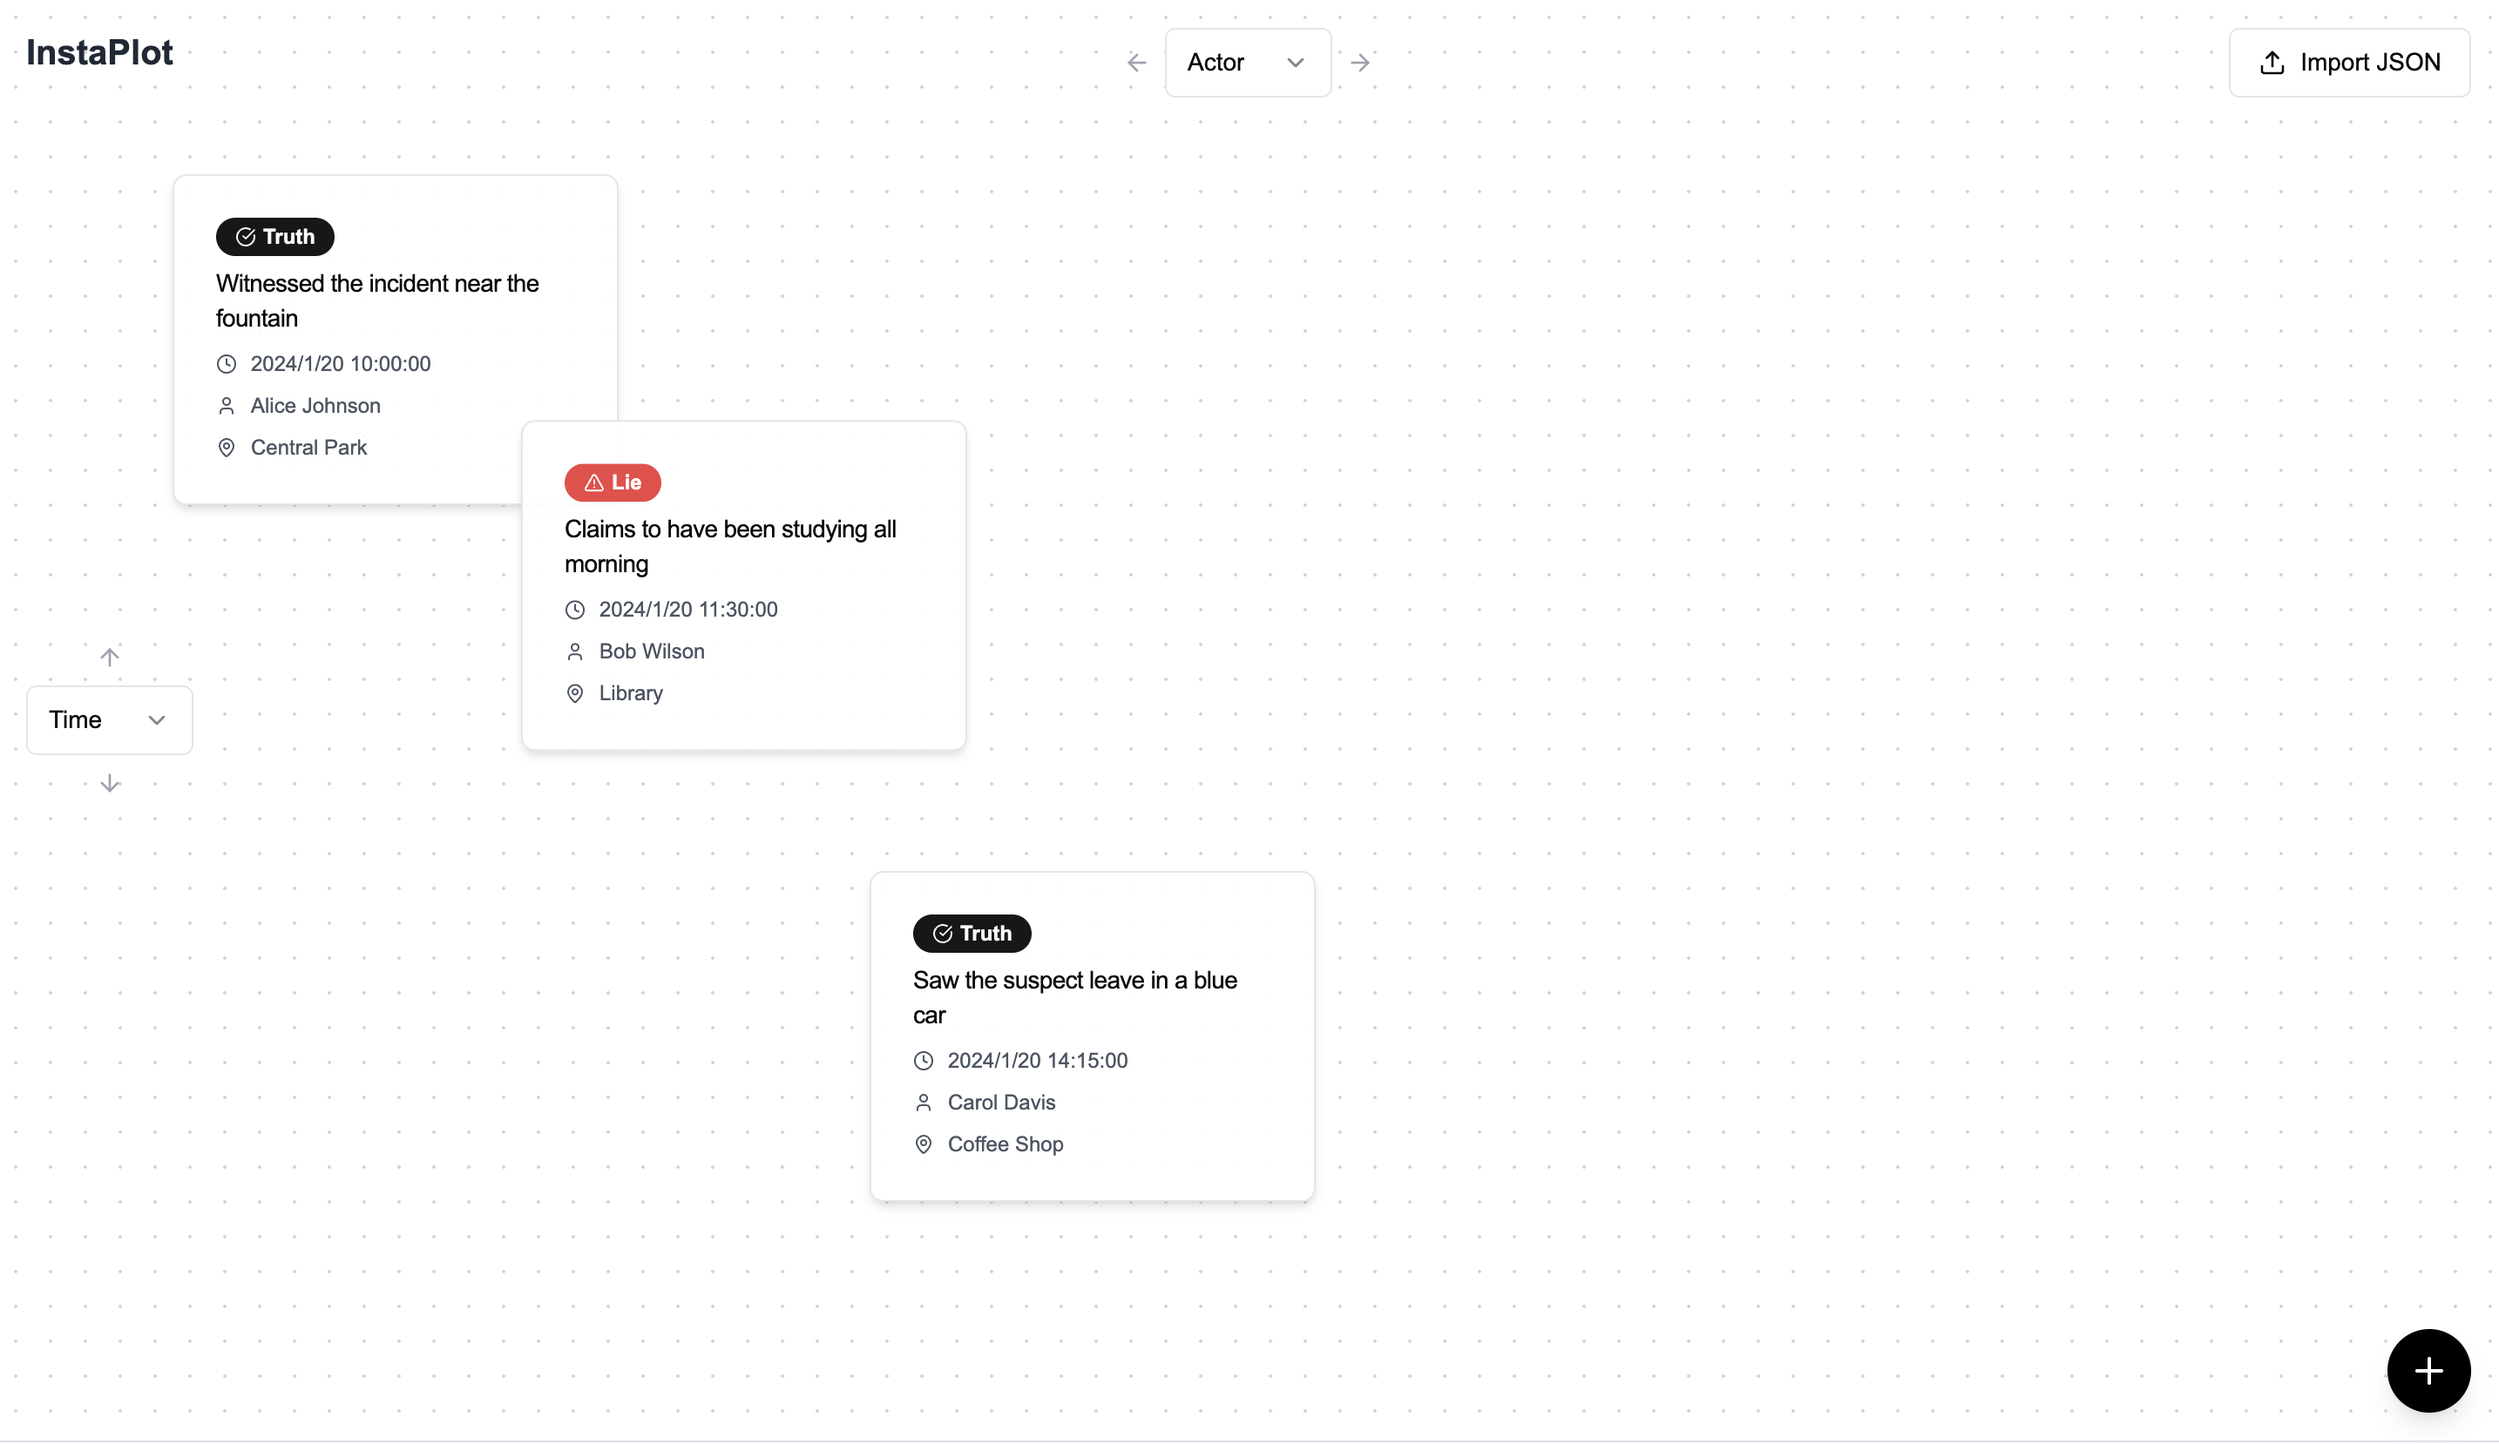
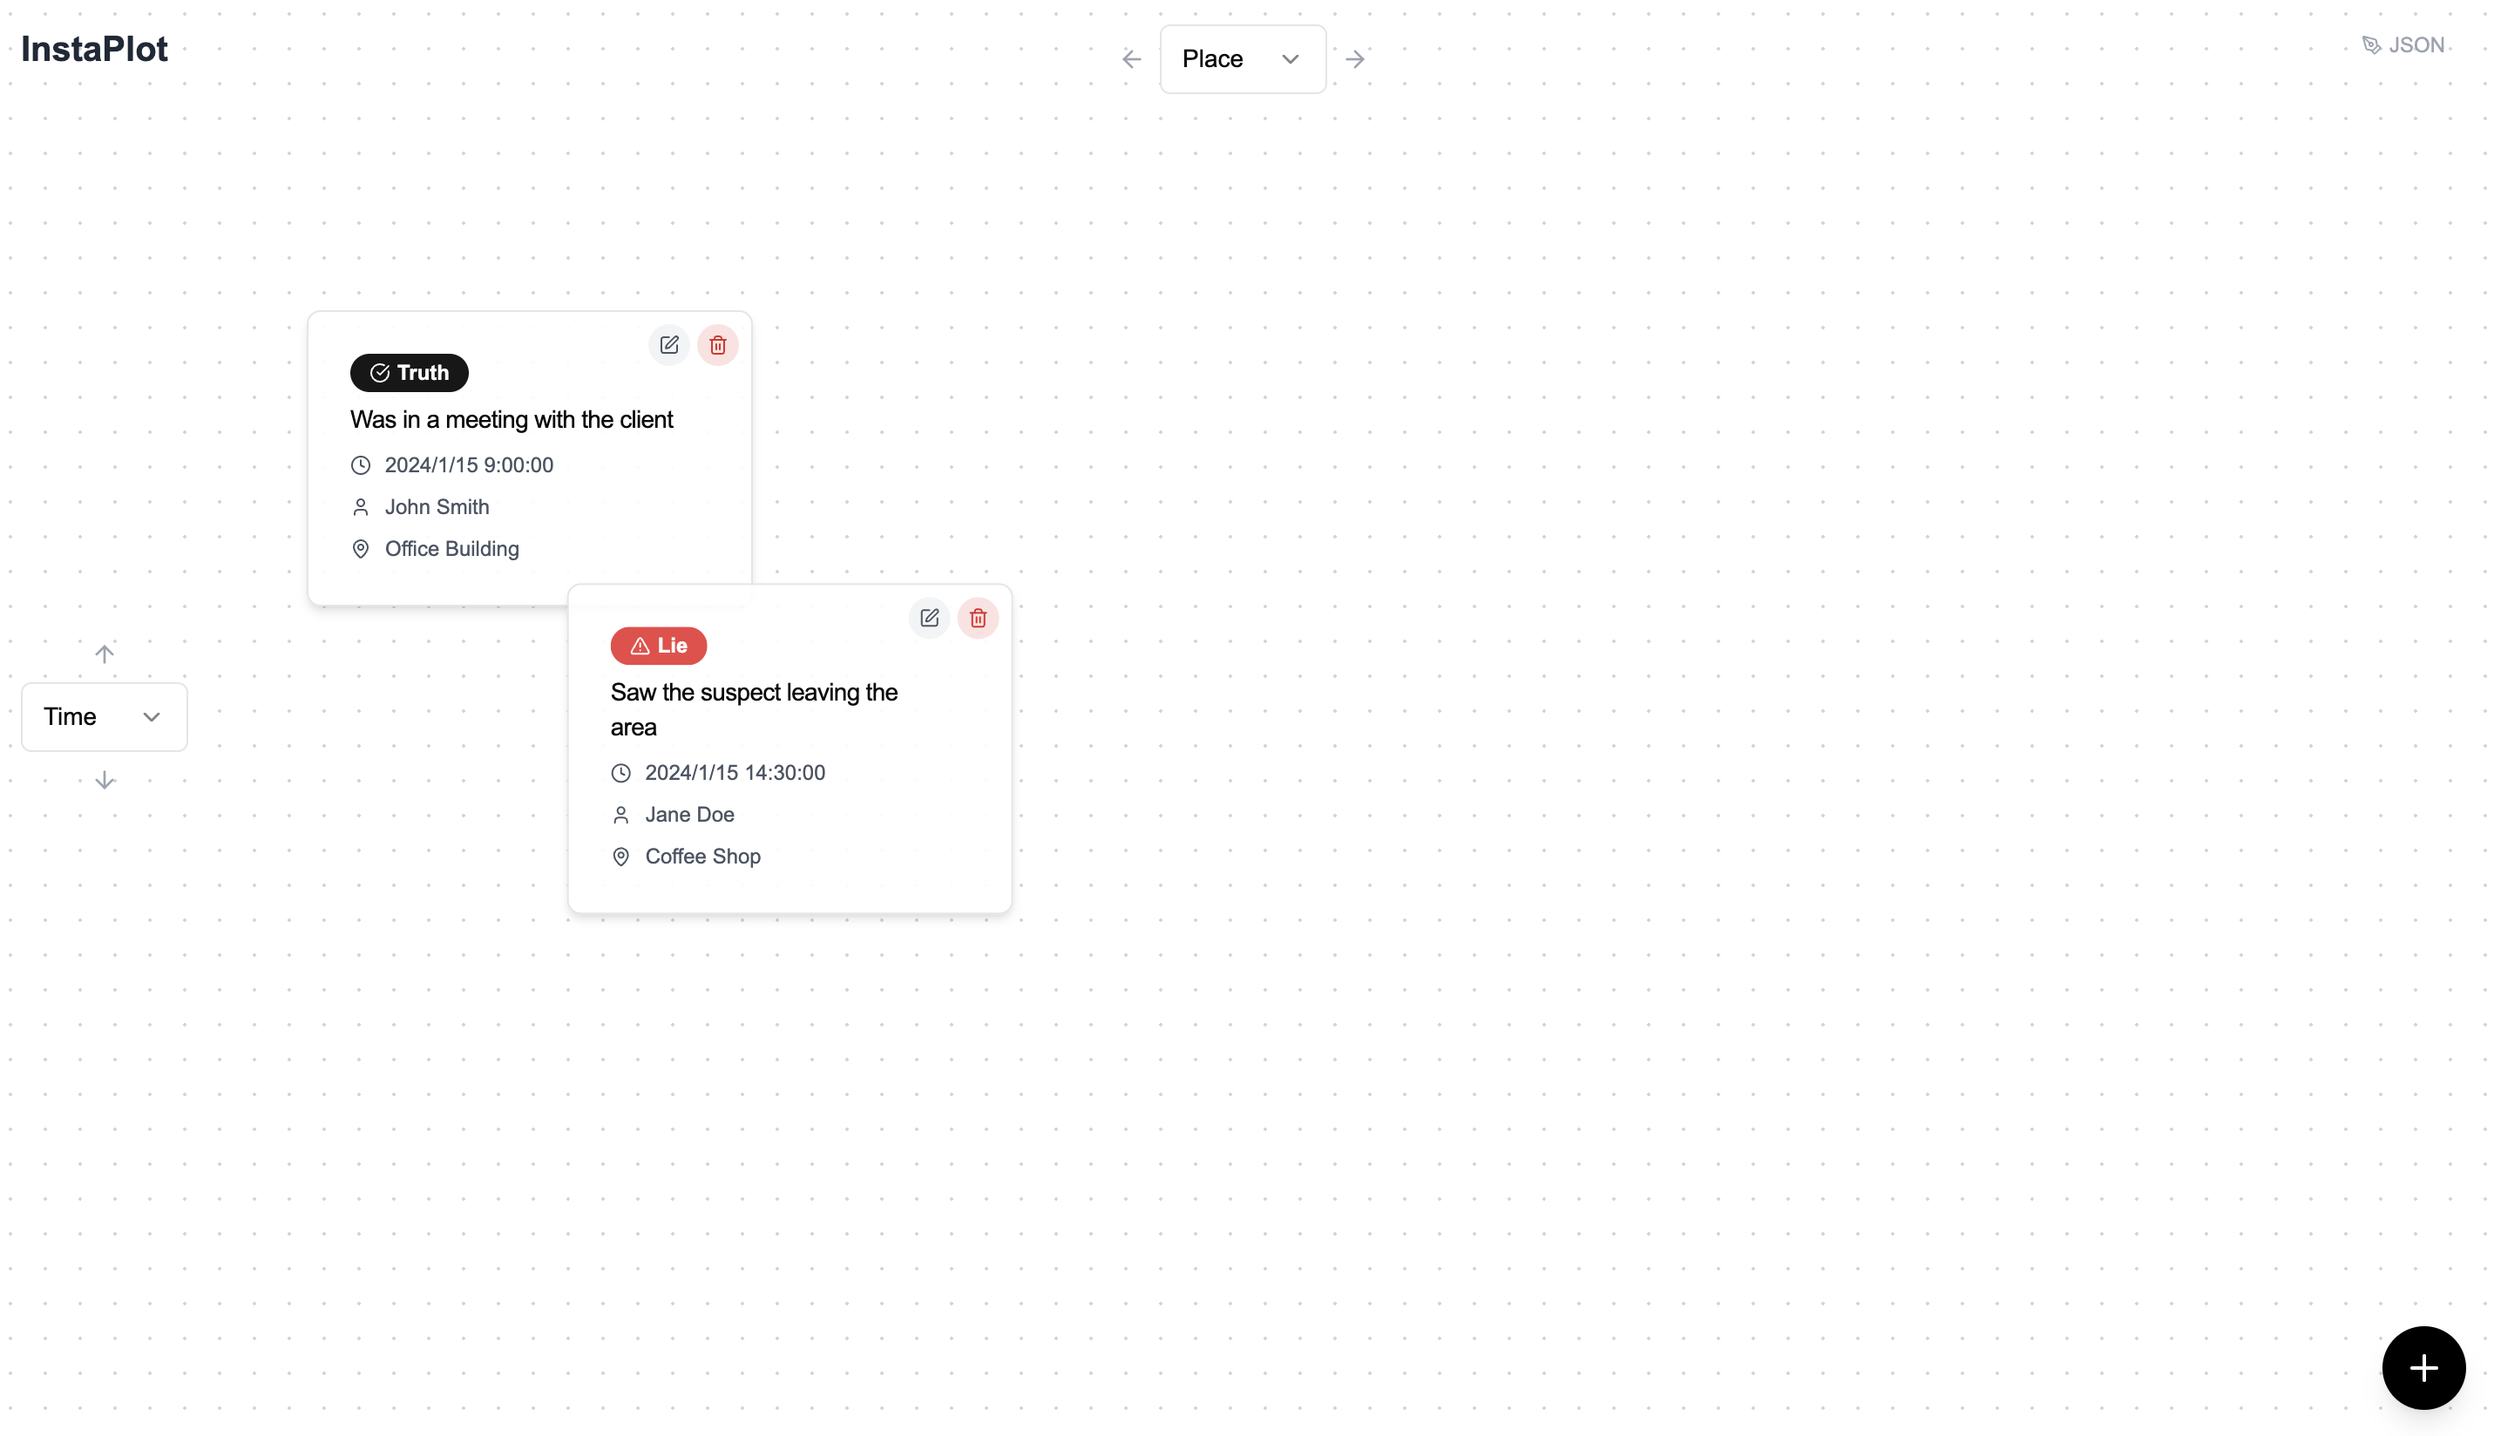
Update README.md: enhance feature descriptions, add JSON editor mode section, and improve design details; add new screenshots

diff --git a/README.md b/README.md
@@ -2,7 +2,12 @@
 
 A professional visual case management tool for organizing and analyzing case information cards in an interactive workspace. Perfect for investigators, researchers, and analysts who need to visualize relationships between events, people, and locations.
 
+🌐 **[Live Demo](https://insta-plot.vercel.app)**
+
 ![InstaPlot Screenshot](./public/screenshot.png)
+
+### JSON Editor Mode
+![JSON Editor Screenshot](./public/screenshot_json.png)
 
 ## ✨ Features
 
@@ -10,7 +15,7 @@ A professional visual case management tool for organizing and analyzing case inf
 - **Full-Screen Plot Area**: Maximizes available space with a professional dotted grid background
 - **Drag & Drop Interface**: Smooth card movement with Framer Motion animations
 - **Real-time Organization**: Cards automatically reorganize when switching axis modes
-- **VSCode-Style Activity Bar**: Left sidebar with import/export icons for quick access
+- **Clean Minimalist Design**: Distraction-free workspace with floating controls
 
 ### 🎛 Dynamic Axis Configuration
 - **X-Axis Control**: Place, Actor, or Time (positioned at top center with directional arrows)
@@ -18,24 +23,26 @@ A professional visual case management tool for organizing and analyzing case inf
 - **Instant Reorganization**: Cards automatically arrange when axis modes change
 - **Visual Feedback**: Clear directional indicators for each axis
 
-### 💾 Robust Data Management
+### 💾 Data Management
 - **Auto-Save**: All cards automatically saved to browser localStorage
-- **JSON Import/Export**: Import and export case data with full validation
+- **JSON Editor**: Live JSON editing with real-time preview and validation
 - **Session Persistence**: Data survives page refreshes and browser restarts
-- **Error Handling**: Graceful handling of invalid data imports
-- **Smart Export**: Downloads include timestamp and are disabled when no cards exist
+- **Default Sample Data**: Starts with example cards to demonstrate functionality
+- **Flexible Import**: Supports JSON import with automatic field validation
 
-### 🃏 Rich Case Cards
+### 🃏 Smart Case Cards
 - **Comprehensive Data**: Time, Actor, Place, Claims, and Truth/Lie classification
 - **Visual Indicators**: Color-coded badges for truth (✓) vs lie (⚠) status
-- **Interactive Cards**: Click to select, edit, or delete with overlay controls
-- **Card Actions**: Edit and delete buttons appear on card selection
+- **Inline Editing**: Click edit button to modify cards directly on the plot
+- **Dual Edit Modes**: Both inline editing and modal editing available
 - **Professional Design**: Semi-transparent cards with shadows and hover effects
+- **Quick Actions**: Edit and delete buttons appear on each card
 
 ### 🎨 Modern UI/UX
-- **Modal Forms**: Clean, centered forms for card creation and editing
+- **Floating Controls**: Minimalist floating action button for adding new cards
+- **JSON Toggle**: Quick access to JSON editor mode for bulk operations
 - **Responsive Design**: Works across different screen sizes
-- **Professional Aesthetics**: Minimalist design with subtle animations
+- **Professional Aesthetics**: Clean design with subtle animations and transitions
 - **Intuitive Navigation**: Logical control placement and visual hierarchy
 
 ## 🚀 Getting Started
@@ -87,23 +94,37 @@ npm start
 - **Framework**: Next.js 15.2.4 with App Router
 - **Language**: TypeScript for type safety
 - **Styling**: Tailwind CSS with custom safelist configuration
-- **UI Components**: Radix UI primitives with custom styling
-- **Animation**: Framer Motion for smooth interactions
+- **UI Components**: Radix UI primitives with shadcn/ui components
+- **Animation**: Framer Motion for smooth drag-and-drop interactions
 - **Icons**: Lucide React for consistent iconography
 - **State Management**: React hooks with localStorage persistence
+- **Forms**: React Hook Form with Zod validation
+- **Theming**: next-themes for theme management
 
 ## 📁 Project Structure
 
 ```
 instaPlot/
 ├── app/
-│   ├── layout.tsx             # Root layout with CSS imports
+│   ├── layout.tsx             # Root layout with theme provider
 │   ├── page.tsx               # Main page component
 │   └── globals.css            # Global styles and CSS variables
 ├── components/
 │   ├── plot-builder.tsx       # Core application component
-│   └── ui/                    # Reusable UI components
-├── tailwind.config.ts         # Tailwind configuration with safelist
+│   ├── theme-provider.tsx     # Theme context provider
+│   └── ui/                    # shadcn/ui components
+├── hooks/
+│   ├── use-mobile.tsx         # Mobile detection hook
+│   └── use-toast.ts           # Toast notification hook
+├── lib/
+│   └── utils.ts               # Utility functions
+├── styles/
+│   └── globals.css            # Additional global styles
+├── public/
+│   └── screenshot.png         # App screenshot
+├── sample-cards.json          # Example card data
+├── components.json            # shadcn/ui configuration
+├── tailwind.config.ts         # Tailwind configuration
 ├── postcss.config.mjs         # PostCSS configuration
 ├── next.config.mjs            # Next.js configuration
 └── package.json               # Dependencies and scripts
@@ -146,13 +167,16 @@ interface CaseCard {
 
 ## 🔜 Roadmap
 
-- [ ] Export functionality (PDF, PNG)
-- [ ] Advanced filtering and search
-- [ ] Collaboration features
-- [ ] Additional visualization modes
-- [ ] Data analytics and insights
-- [ ] Theme customization
-- [ ] Mobile app version
+- [ ] SSO login integration (Google, GitHub, Microsoft)
+- [ ] Cloud data storage and synchronization
+- [ ] Multiple plot management (save/load different sets of cards)
+- [ ] Export functionality (PDF, PNG, CSV)
+- [ ] Advanced filtering and search within cards
+- [ ] Undo/redo functionality for card operations
+- [ ] Card templates and presets
+- [ ] Bulk card operations via JSON editor
+- [ ] Keyboard shortcuts for common actions
+- [ ] Print-friendly layouts
 
 ## 🤝 Contributing
 
